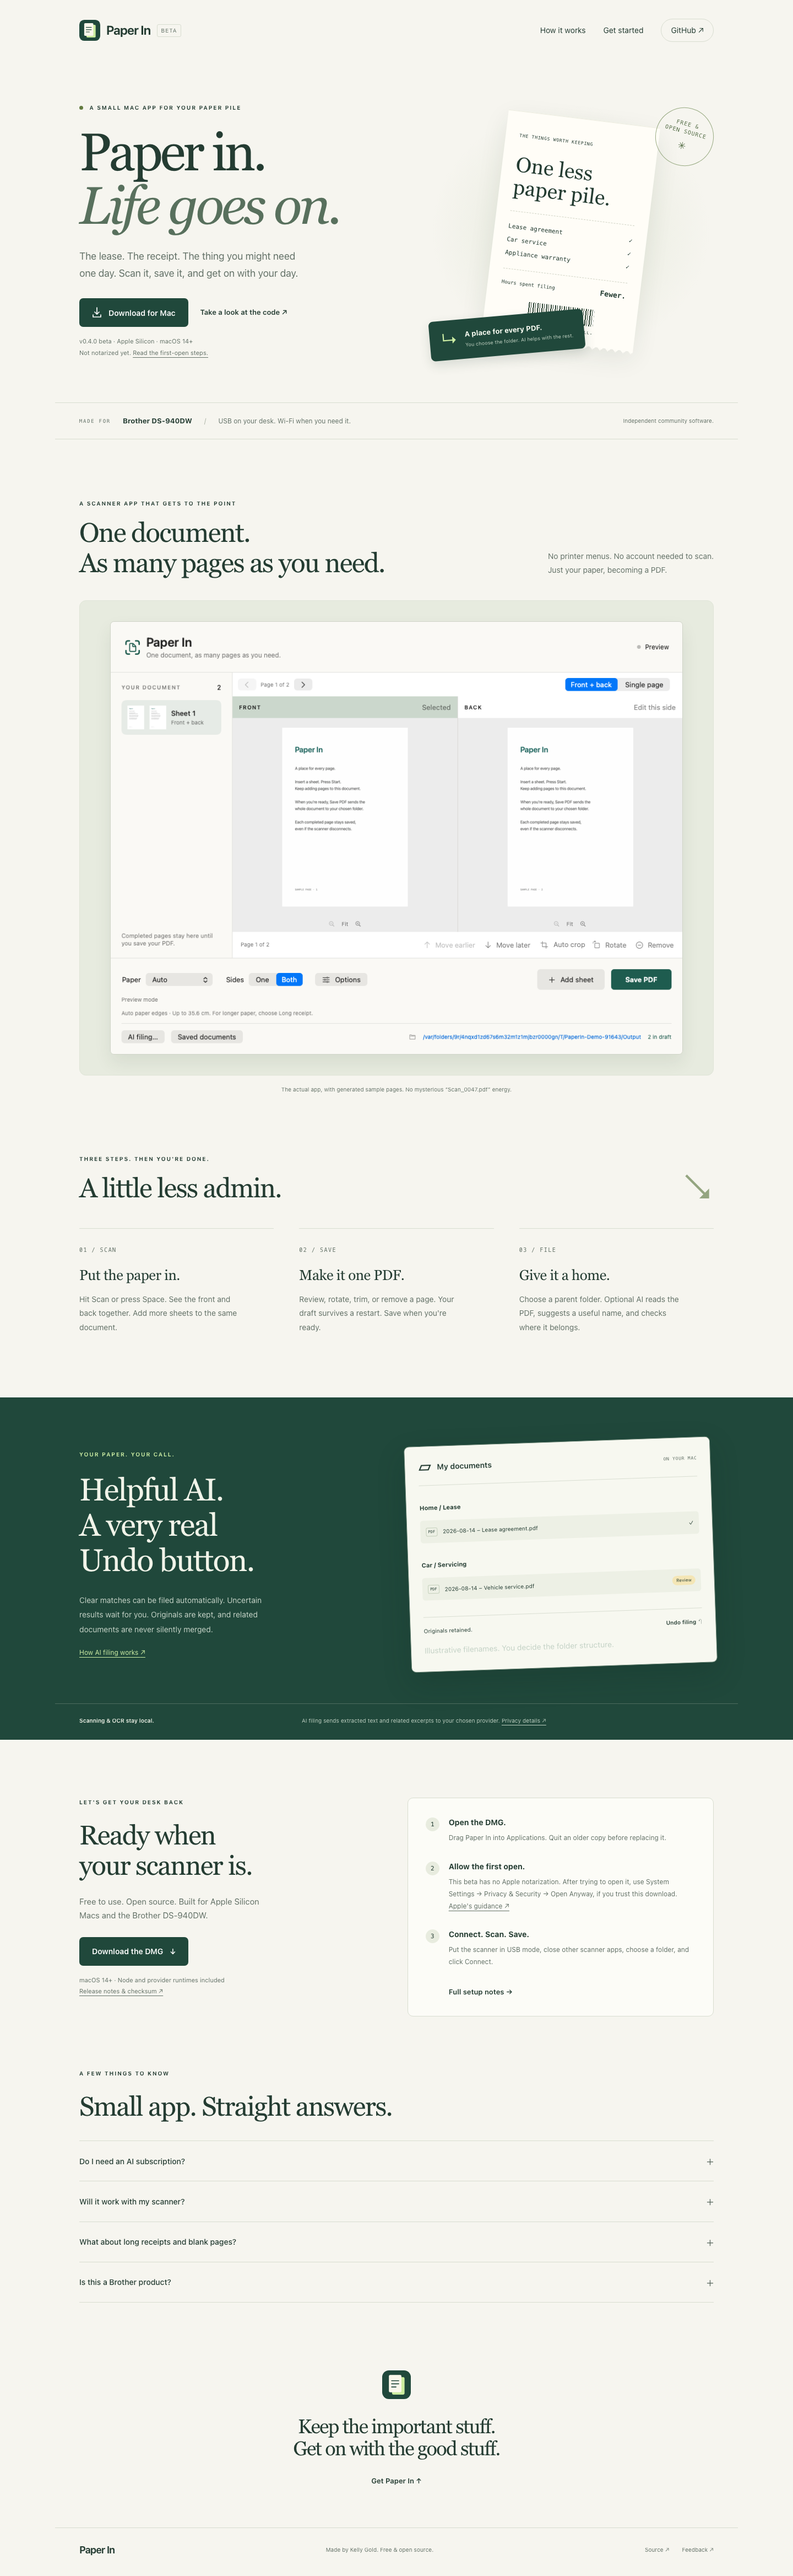
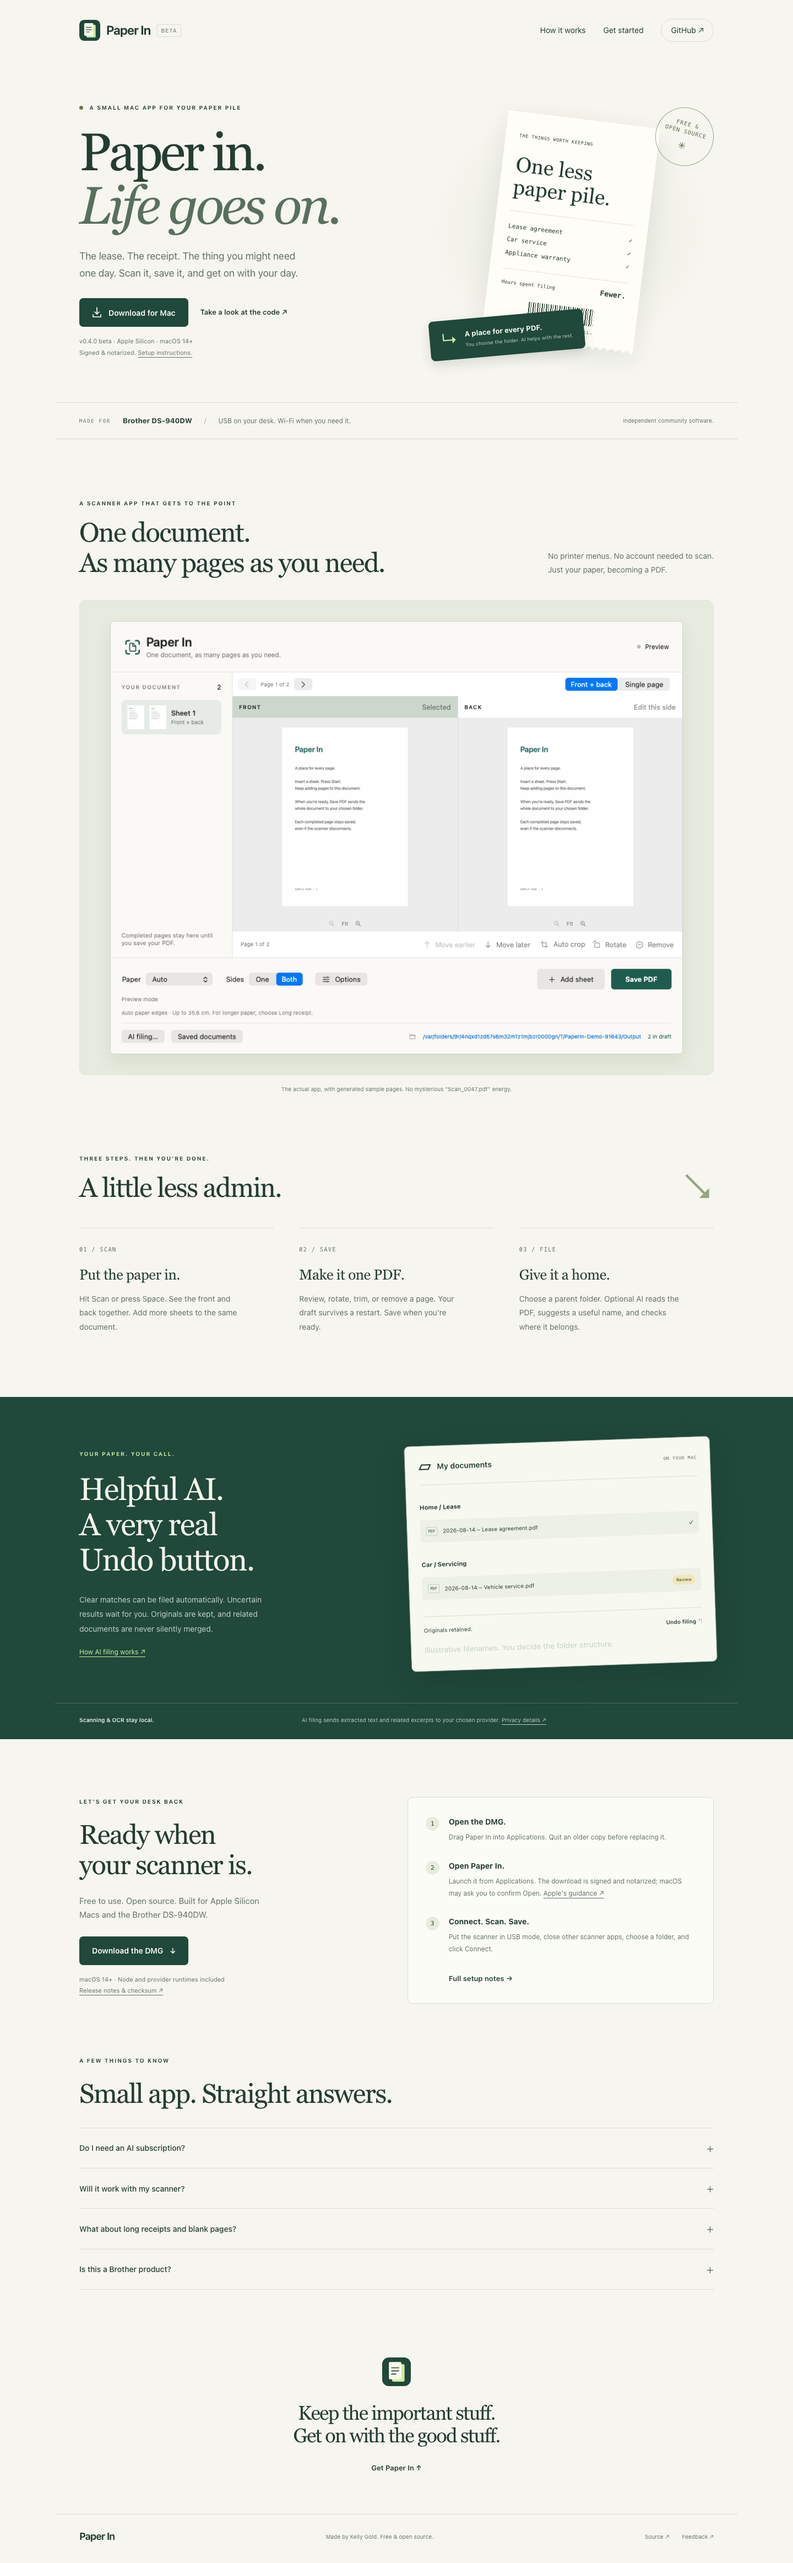
Record signed app acceptance and exact-candidate validation

diff --git a/docs/proof/pr-9/app-ticket-receipt.md b/docs/proof/pr-9/app-ticket-receipt.md
@@ -1,0 +1,20 @@
+# App-ticket packaging delta audit
+
+HEAD df91266aba907d7bc27d1ef716f1393938efb94e independently confirmed clean. Delta from a09382b: scripts/package-dmg.sh and docs/distribution.md. Mock run completed 2026-09-05T23:07:58Z. Exact tested script SHA256 1e06c8322f20298fca031e4f90679a3e75e661cc0c70938b180ea195cdc40a92.
+
+## Result
+No concrete bug found in this bounded delta. Eighteen mocked contract cases passed. The script now fails closed on app notarization/ticket/policy failures before constructing the DMG, while retaining the existing DMG-stage gates.
+
+## Evidence
+- scripts/package-dmg.sh:8–10 shared paper_notarize helper retains set -euo pipefail behavior when called as a normal top-level command. Both app and DMG submissions reject Invalid, timeout exit75 and malformed JSON; neither can bypass exact Accepted status.
+- :42–47 writes the signed payload ZIP, requires its acceptance, staples/validates the application ticket and runs syspolicy_check distribution before DMG construction. Each app invalid/timeout/malformed/staple/validate/policy failure prevented any hdiutil create call and retained its ZIP/receipt where created.
+- Successful call trace confirms app submit < app ticket validate < syspolicy_check < DMG construction < DMG submit. Exactly two notary submissions occurred. The temporary app ZIP is removed only after the app checks pass.
+- DMG invalid/timeout/malformed/staple/validate/signature/Gatekeeper failures all prevented promotion to the new release filename. Missing identity/profile and initial signature checks still fail early. Success alone produced final DMG/checksum; an existing older release remained unchanged after a later failure.
+- docs/distribution.md accurately distinguishes app and DMG receipts, explains the copied app's stapled ticket, and describes retained current payloads after failures. It continues to require actual accepted/verified artifacts before public installation claims.
+
+Commands: bash -n scripts/package-dmg.sh; git diff --check a09382b..HEAD; python3 .build/signing-audit/contracts-app-ticket.py. Eighteen fixture copies were byte-identical to the pinned script. Call-order assertions passed.
+
+## Limitations and cleanup
+All Apple, signing, ticket, policy, DMG and Node operations were mocked. This checks control flow, status parsing, retained filenames, success ordering and negative gates; it does not establish real acceptance/ticket validity for df91266. Root owns current real notarization, final bundle checks and full tests. No Keychain, credentials, network, private documents, scanner or installed app accessed. The real packaging run and its authorization prompt were left alone.
+
+Removed the entire isolated app-ticket-sandbox after preserving app-ticket-contracts.json, contracts-app-ticket.py, audited-app-ticket-package-dmg.sh and this receipt. No source edits, commits, publishing or agent delegation.
